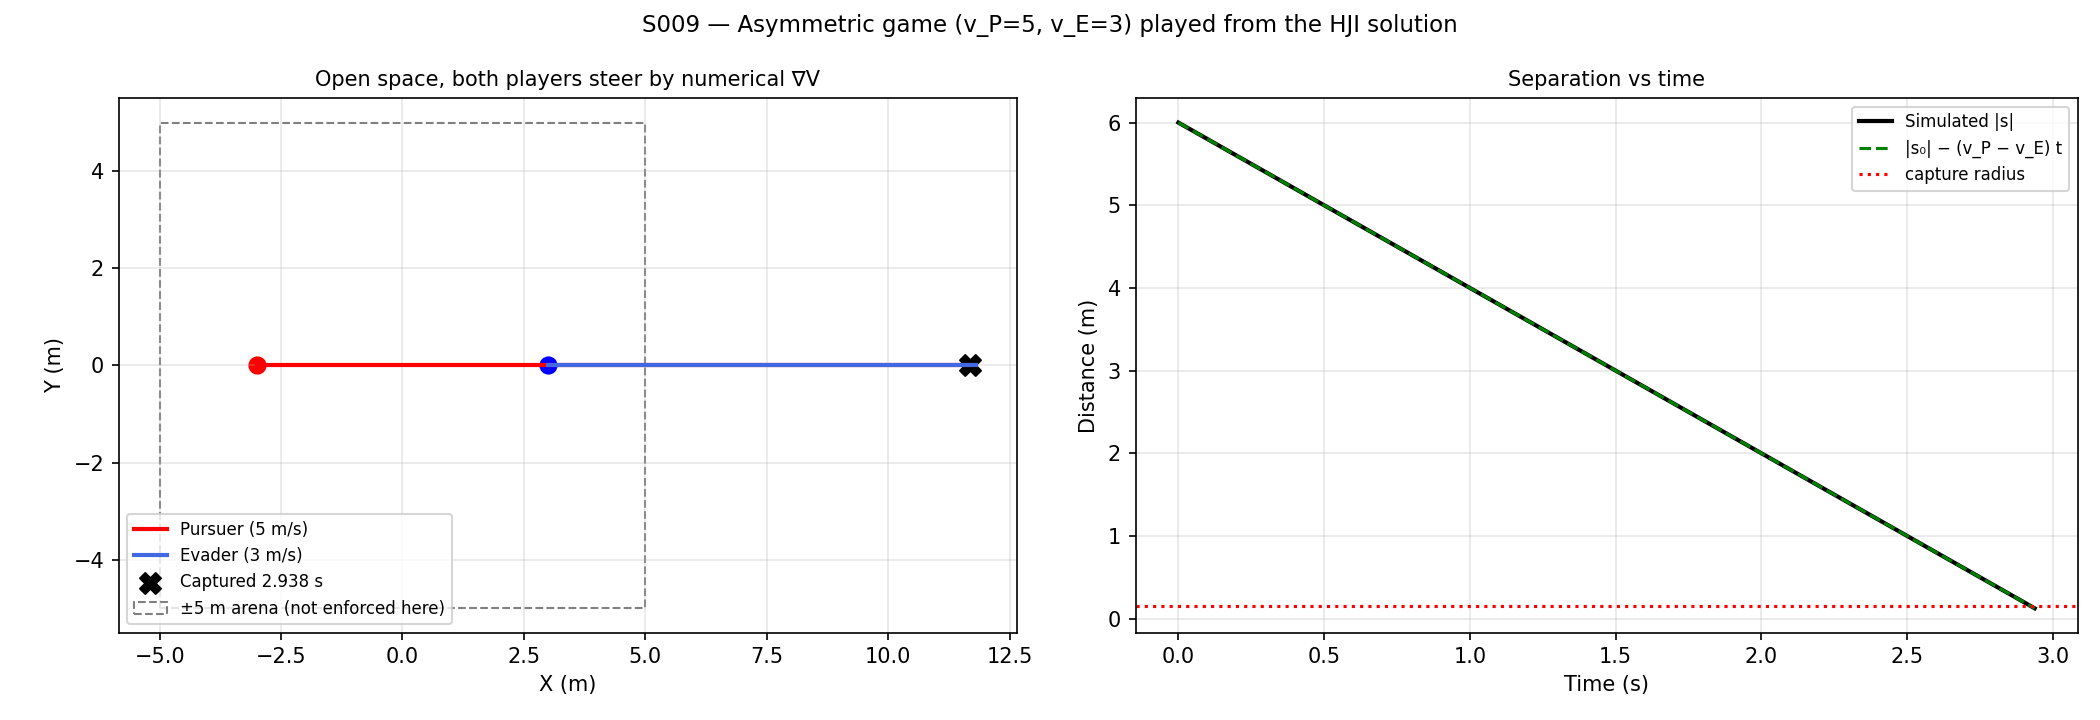
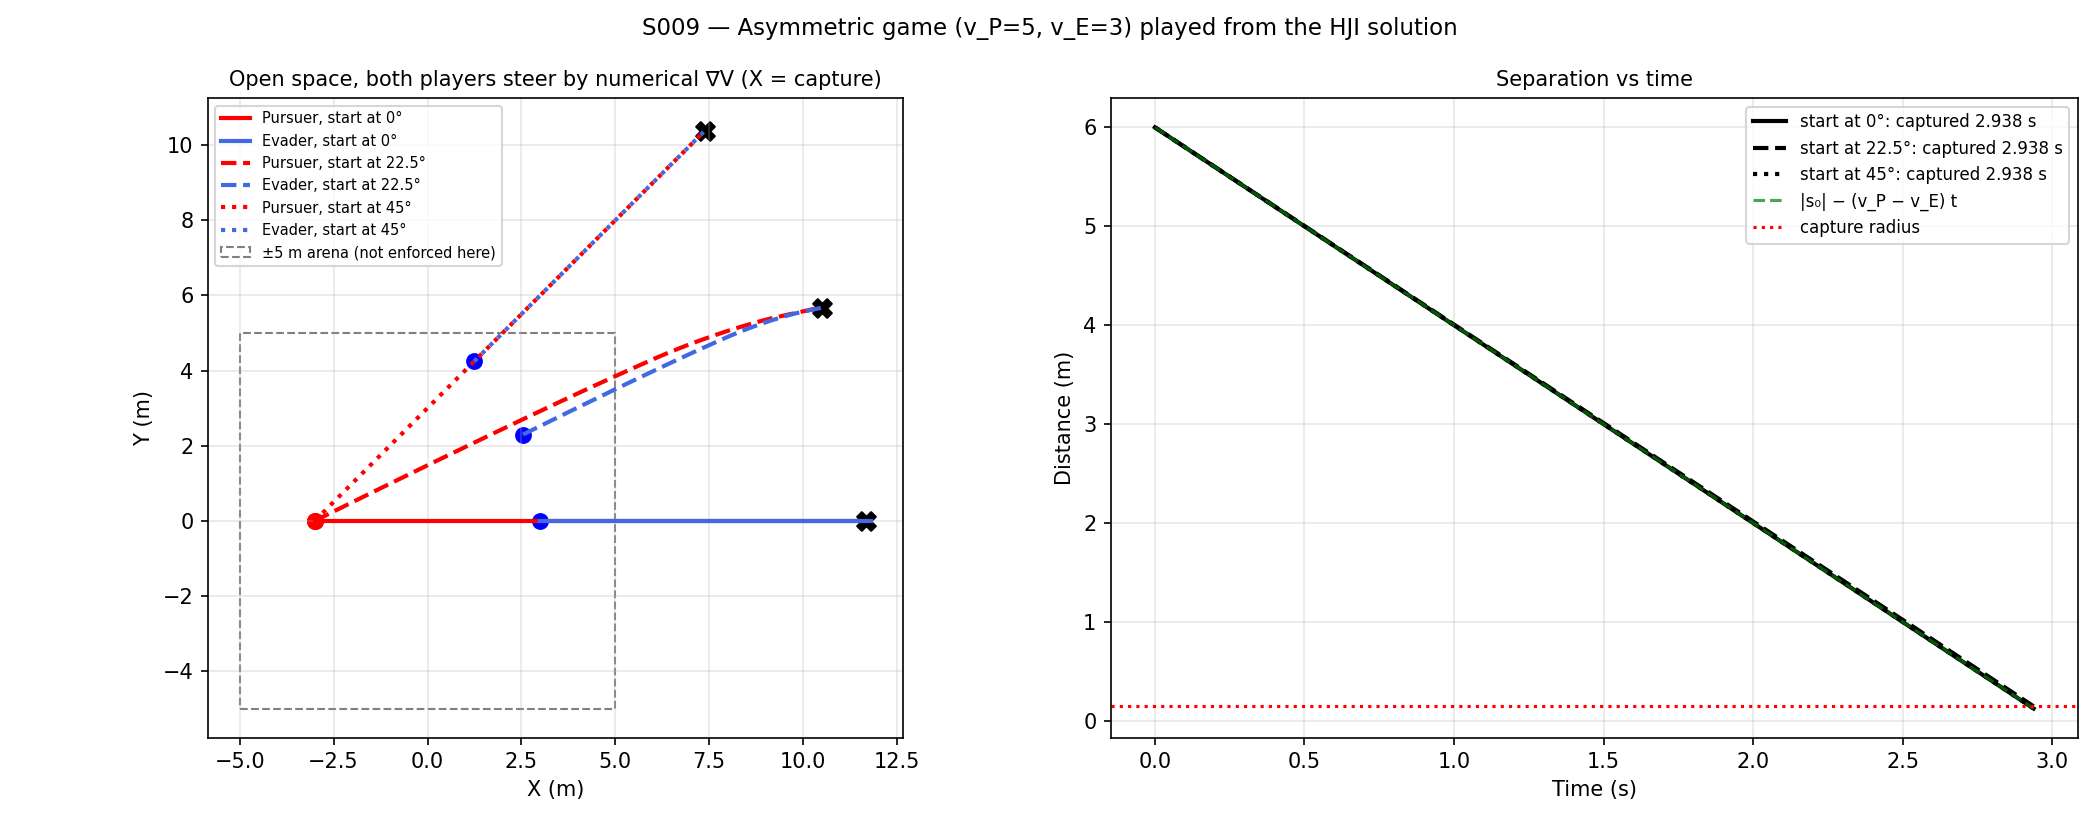
Fix S009 Differential Game: address review follow-ups
- README no longer claims the grid error is zero along the axes (no node
  lies on an axis for N = 50); the script now prints the near-axis error
  (max 0.0412 s on the nearest rows, mean 0.0435 s within 5 deg) and the
  near-diagonal error (mean 0.1880 s)
- Open-space grad-V game also run from off-axis starts (22.5 and 45 deg):
  capture 2.938 s from all starts; the 22.5 deg path bows by up to
  0.318 m. README explains why capture time is insensitive to the
  gradient direction error

diff --git a/src/01_pursuit_evasion/s009_differential_game.py b/src/01_pursuit_evasion/s009_differential_game.py
@@ -15,7 +15,8 @@ Part A — HJI in relative coordinates s = p_E - p_P (no walls)
   - v_P = v_E: |∇V| drops out, V grows by τ every iteration → V = ∞
     (no finite capture time in open space).
   The asymmetric game (v_P = 5, v_E = 3) is then played with both players
-  steering by the interpolated numerical ∇V.
+  steering by the interpolated numerical ∇V, from an on-axis start and two
+  off-axis starts (OFF_AXIS_DEG) where the grid gradient is least accurate.
 
 Part B — Equal-speed Lion & Man in the bounded arena [-5, 5]² (v = 4 m/s,
   capture radius 0.15 m).  The relative-state HJI ignores walls; the full
@@ -56,6 +57,7 @@ CAPTURE_R  = 0.15    # m
 DT_SIM     = 1 / 48
 MAX_TIME_OPEN  = 20.0   # s
 MAX_TIME_ARENA = 150.0  # s
+OFF_AXIS_DEG = [22.5, 45.0]   # deg — extra open-space starts off the grid axes
 
 V_P_ASYM, V_E_ASYM = 5.0, 3.0
 V_EQUAL = 4.0
@@ -222,15 +224,17 @@ MAN_LABEL = {'circle': 'Man: circle (4.5 m)', 'flee': 'Man: flee (HJI open-space
 
 # ── Simulation ───────────────────────────────────────────────
 
-def run_simulation(mode, lion='radius', man='circle', grad_interp=None):
+def run_simulation(mode, lion='radius', man='circle', grad_interp=None, init_evader=None):
     """
     mode = 'open'  : asymmetric speeds (V_P_ASYM, V_E_ASYM), no walls, both
                      players steer by the interpolated numerical ∇V(s).
     mode = 'arena' : equal speeds V_EQUAL in [-ARENA, ARENA]², strategies
                      LIONS[lion] vs MEN[man].
+    init_evader: evader start (default INIT_EVADER).
     Returns dict(p, e, d, t, captured, cap_time).
     """
-    L, M = INIT_PURSUER.astype(float).copy(), INIT_EVADER.astype(float).copy()
+    M0 = INIT_EVADER if init_evader is None else init_evader
+    L, M = INIT_PURSUER.astype(float).copy(), np.asarray(M0, dtype=float).copy()
     p_list, e_list = [L.copy()], [M.copy()]
     if mode == 'open':
         ix, iy = grad_interp
@@ -338,27 +342,31 @@ def plot_convergence(sol2, sol3, sol_eq, out_dir):
     print(f'Saved: {path}')
 
 
-def plot_optimal_trajectories(open_res, out_dir):
-    fig, (ax1, ax2) = plt.subplots(1, 2, figsize=(14, 4.8))
-    p, e = open_res['p'], open_res['e']
-    ax1.plot(p[:, 0], p[:, 1], 'r-', linewidth=2, label='Pursuer (5 m/s)')
-    ax1.plot(e[:, 0], e[:, 1], color='royalblue', linewidth=2, label='Evader (3 m/s)')
-    ax1.scatter(*p[0], color='red', s=60); ax1.scatter(*e[0], color='blue', s=60)
-    if open_res['captured']:
-        ax1.scatter(*p[-1], color='black', marker='X', s=100,
-                    label=f'Captured {open_res["cap_time"]:.3f} s')
+def plot_optimal_trajectories(open_runs, out_dir):
+    fig, (ax1, ax2) = plt.subplots(1, 2, figsize=(14, 5.5))
+    styles = ['-', '--', ':']
+    for (lab, r), ls in zip(open_runs, styles):
+        p, e = r['p'], r['e']
+        ax1.plot(p[:, 0], p[:, 1], color='red', linestyle=ls, linewidth=2,
+                 label=f'Pursuer, {lab}')
+        ax1.plot(e[:, 0], e[:, 1], color='royalblue', linestyle=ls, linewidth=2,
+                 label=f'Evader, {lab}')
+        ax1.scatter(*p[0], color='red', s=50); ax1.scatter(*e[0], color='blue', s=50)
+        if r['captured']:
+            ax1.scatter(*p[-1], color='black', marker='X', s=80)
+        ax2.plot(r['t'], r['d'], color='black', linestyle=ls, linewidth=2,
+                 label=f'{lab}: captured {r["cap_time"]:.3f} s')
     ax1.add_patch(plt.Rectangle((-ARENA, -ARENA), 2 * ARENA, 2 * ARENA, fill=False,
                                 edgecolor='grey', linestyle='--',
                                 label='±5 m arena (not enforced here)'))
     ax1.set_aspect('equal'); ax1.grid(True, alpha=0.3)
     ax1.set_xlabel('X (m)'); ax1.set_ylabel('Y (m)')
-    ax1.set_title('Open space, both players steer by numerical ∇V', fontsize=10)
-    ax1.legend(fontsize=8, loc='lower left')
+    ax1.set_title('Open space, both players steer by numerical ∇V (X = capture)', fontsize=10)
+    ax1.legend(fontsize=7, loc='upper left')
 
-    ax2.plot(open_res['t'], open_res['d'], 'k-', linewidth=2, label='Simulated |s|')
-    t_line = open_res['t']
+    t_line = open_runs[0][1]['t']
     ax2.plot(t_line, np.linalg.norm(INIT_EVADER - INIT_PURSUER)
-             - (V_P_ASYM - V_E_ASYM) * t_line, 'g--',
+             - (V_P_ASYM - V_E_ASYM) * t_line, 'g--', alpha=0.7,
              label='|s₀| − (v_P − v_E) t')
     ax2.axhline(CAPTURE_R, color='red', linestyle=':', label='capture radius')
     ax2.set_xlabel('Time (s)'); ax2.set_ylabel('Distance (m)')
@@ -505,12 +513,40 @@ if __name__ == '__main__':
     print(f'  angle between numerical ∇V and s/|s| (|s| > 1 m): mean {ang.mean():.2f}°, '
           f'max {ang.max():.2f}°')
 
-    open_res = run_simulation('open', grad_interp=gradient_interpolators(g2, V2))
+    # error near the axes (N even: no node lies exactly on an axis)
+    err2 = np.abs(V2 - analytic_value(R2, V_P_ASYM, V_E_ASYM))
+    near = np.min(np.abs(g2))
+    row = (np.isclose(np.abs(X), near) | np.isclose(np.abs(Y), near)) & (R2 > 1.0)
+    axis_ang = np.degrees(np.arctan2(np.minimum(np.abs(X), np.abs(Y)),
+                                     np.maximum(np.abs(X), np.abs(Y))))
+    within5 = (axis_ang <= 5.0) & (R2 > 1.0)
+    diag = (np.abs(axis_ang - 45.0) <= 5.0) & (R2 > 1.0)
+    print(f'  V error on the grid rows nearest the axes (|x| or |y| = {near:.4f} m, '
+          f'|s| > 1 m): max {err2[row].max():.4f} s, mean {err2[row].mean():.4f} s')
+    print(f'  V error within 5° of an axis: mean {err2[within5].mean():.4f} s '
+          f'({within5.sum()} nodes); within 5° of a diagonal: mean '
+          f'{err2[diag].mean():.4f} s ({diag.sum()} nodes)')
+
+    grads = gradient_interpolators(g2, V2)
     s0 = np.linalg.norm(INIT_EVADER - INIT_PURSUER)
-    print(f'  open-space game from ∇V: captured={open_res["captured"]} '
-          f'@ {open_res["cap_time"]:.3f} s (analytic (|s0| - r_c)/(v_P - v_E) = '
-          f'{(s0 - CAPTURE_R) / (V_P_ASYM - V_E_ASYM):.3f} s); '
-          f'evader final x = {open_res["e"][-1, 0]:.2f} m')
+    t_an = (s0 - CAPTURE_R) / (V_P_ASYM - V_E_ASYM)
+    open_runs = []
+    for deg in [0.0] + OFF_AXIS_DEG:
+        th = np.radians(deg)
+        e0 = INIT_PURSUER + s0 * np.array([np.cos(th), np.sin(th)])
+        r = run_simulation('open', grad_interp=grads, init_evader=e0)
+        open_runs.append((f'start at {deg:g}°', r))
+        u0 = (e0 - INIT_PURSUER) / s0
+        de = r['e'] - e0
+        perp = np.abs(u0[0] * de[:, 1] - u0[1] * de[:, 0])   # distance from the start line
+        head = np.degrees(np.arccos(np.clip(
+            (r['e'][-1] - e0) @ u0 / np.linalg.norm(r['e'][-1] - e0), -1, 1)))
+        print(f'  open-space game from ∇V, evader start at {deg:g}° ({e0[0]:.3f}, {e0[1]:.3f}): '
+              f'captured={r["captured"]} @ {r["cap_time"]:.3f} s (analytic {t_an:.3f} s) | '
+              f'evader max deviation from the straight escape line {perp.max():.3f} m, '
+              f'net heading error {head:.2f}° | evader final ({r["e"][-1, 0]:.2f}, '
+              f'{r["e"][-1, 1]:.2f})')
+    open_res = open_runs[0][1]
 
     print(f'\nPart B — equal-speed Lion & Man in the ±{ARENA:.0f} m arena '
           f'(v = {V_EQUAL} m/s, r_c = {CAPTURE_R} m, max {MAX_TIME_ARENA:.0f} s)')
@@ -533,6 +569,6 @@ if __name__ == '__main__':
     out_dir = os.path.normpath(OUTPUT_DIR)
     plot_value_functions(sol2, sol3, out_dir)
     plot_convergence(sol2, sol3, sol_eq, out_dir)
-    plot_optimal_trajectories(open_res, out_dir)
+    plot_optimal_trajectories(open_runs, out_dir)
     plot_arena(arena_res, out_dir)
     save_animation(open_res, arena_res, out_dir)

diff --git a/outputs/01_pursuit_evasion/s009_differential_game/README.md b/outputs/01_pursuit_evasion/s009_differential_game/README.md
@@ -99,7 +99,23 @@ Runtime ≈ 30 s. The script has no random elements.
 
 Angle between the numerical $\nabla V$ and the exact direction $\mathbf{s}/\|\mathbf{s}\|$ (2-D, $\|\mathbf{s}\| > 1$ m): mean 2.57°, max 7.14°.
 
-**Asymmetric game played from the numerical $\nabla V$** (both players): captured at **2.938 s**. Analytic optimum: $(6 - 0.15)/(5 - 3) = 2.925$ s. The simulation needs $\lceil 2.925 \times 48 \rceil = 141$ steps of 1/48 s, i.e. 2.9375 s. The evader ends at x = 11.81 m: this open-space game ignores the arena.
+Grid error near the axes and diagonals (2-D; N = 50 is even, so no node lies exactly on an axis):
+
+| Region (\|s\| > 1 m) | Mean \|V − V_analytic\| | Max |
+|---|---|---|
+| Grid rows nearest the axes (\|x\| or \|y\| = 0.2041 m) | 0.0395 s | 0.0412 s |
+| Within 5° of an axis (216 nodes) | 0.0435 s | — |
+| Within 5° of a diagonal (396 nodes) | 0.1880 s | — |
+
+**Asymmetric game played from the numerical $\nabla V$** (both players), from three evader starts 6 m from the pursuer at (−3, 0):
+
+| Evader start (angle from the x-axis) | Captured | Evader's largest sideways deviation from its initial escape line | Net heading error | Evader end point |
+|---|---|---|---|---|
+| 0° — (3.000, 0.000), on a grid axis | **2.938 s** | 0.000 m | 0.00° | (11.81, 0.00) |
+| 22.5° — (2.543, 2.296) | **2.938 s** | 0.318 m | 0.31° | (10.64, 5.70) |
+| 45° — (1.243, 4.243), on the grid diagonal | **2.938 s** | 0.000 m | 0.00° | (7.47, 10.47) |
+
+Analytic optimum: $(6 - 0.15)/(5 - 3) = 2.925$ s. The simulation needs $\lceil 2.925 \times 48 \rceil = 141$ steps of 1/48 s, i.e. 2.9375 s. The evader ends outside the ±5 m box in every case: this open-space game ignores the arena.
 
 ### Part B — Equal-speed Lion & Man in the ±5 m arena
 
@@ -113,14 +129,15 @@ Both players stay inside the arena in all four games.
 **Key Findings**:
 
 - **The corrected HJI scheme converges to the analytic value.** With the sign fixed, the iteration grows $V$ outward from the capture set and stops changing once $(v_P - v_E)|\nabla V| = 1$ holds everywhere: 119 iterations in 2-D, 145 in 3-D. The front reaches the 2-D corner after about $6.996 / \tau = 6.996 / 0.0918 \approx 76$ iterations ($\tau = 0.9 \times 0.4082 / (2 \times 2) = 0.0918$ s), matching the knee of the convergence curve.
-- **The remaining error is the first-order grid error.** It is zero along the grid axes and largest along the diagonals: a 4-neighbour upwind stencil measures diagonal distances as too long. The largest 2-D error is 0.2206 s, which is 3.2% of the 6.996 s corner value. The coarser 3-D grid (Δx = 0.69 m) has a larger error (0.5561 s).
+- **The remaining error is the first-order grid error.** It is small near the grid axes (mean 0.0395 s, max 0.0412 s on the grid rows nearest the axes; mean 0.0435 s within 5° of an axis) and largest along the diagonals (mean 0.1880 s within 5° of a diagonal). A 4-neighbour upwind stencil measures diagonal distances as too long. The largest 2-D error is 0.2206 s, which is 3.2% of the 6.996 s corner value. The coarser 3-D grid (Δx = 0.69 m) has a larger error (0.5561 s).
 - **Equal speeds in open space: no finite capture time.** For $v_P = v_E$ the $|\nabla V|$ term vanishes, and every iteration adds exactly τ = 0.05 s to $V$ (max|ΔV| = 0.0500 s at every one of 200 iterations). That is the numerical form of $V = \infty$: a Man who runs straight away is never caught.
-- **The value function now drives both players.** Steering by the interpolated numerical $\nabla V$ gives a straight-line chase whose separation follows $|s_0| - (v_P - v_E)\,t$ exactly, and capture at 2.938 s (the analytic optimum plus step rounding). The old version's evader was suboptimal (captured at 2.38 s).
+- **The value function now drives both players.** Steering by the interpolated numerical $\nabla V$ gives capture at 2.938 s (the analytic optimum plus step rounding) from all three starts. The old version's evader was suboptimal (captured at 2.38 s). On the axis (0°) and on the diagonal (45°) the numerical gradient points exactly along $\mathbf{s}$ by symmetry, so the paths are straight. From the 22.5° start, where the gradient direction is off by a few degrees (max 7.14° over the grid), the common path bows sideways by up to 0.318 m and ends 0.31° off the straight line.
+- **Capture time is insensitive to this gradient error, so this test is weak.** Both players use the same direction $\hat{u}$, so the separation shrinks at $(v_P - v_E)\cos\varphi$, where φ is the angle between $\hat{u}$ and $\mathbf{s}$. With φ ≤ 7.14°, $\cos\varphi \ge 0.992$: less than 1% slower, which disappears in the 1/48 s step. A test where only one player uses the numerical gradient and the other the exact direction would expose the error more directly; it is not done here.
 - **In the bounded arena with a 0.15 m capture radius, the Lion wins against every Man strategy tried.** This contradicts the card's expectation that the Man can keep his distance indefinitely. That expectation holds in open space (above) or in the continuous game with zero capture radius (Besicovitch's spiral). With walls and a positive capture radius, the Lion can always catch him.
 - **The Lion's strategy matters a lot against the circling Man.** The radius strategy (stay between centre and Man) captures him in 2.271 s. Pure pursuit, the open-space HJI control, needs 88.208 s: it falls into the Man's circle behind him, and the gap shrinks only slowly (log-scale distance plot).
 - **The Man's open-space HJI control (flee) fails in a box.** Running straight away takes him into the right wall, along it, and into the (5, 5) corner, where he is caught (2.542 s against pure pursuit, 2.688 s against the radius strategy). The radius Lion is 0.15 s slower there because it first moves along the centre→Man segment instead of straight at him.
 
-**Value Function** — left: numerical V(s) for $v_P = 5$, $v_E = 3$ (2-D); centre: error against the analytic value (zero along the axes, largest on the diagonals); right: V against distance for every 2-D and 3-D grid node, with the analytic line:
+**Value Function** — left: numerical V(s) for $v_P = 5$, $v_E = 3$ (2-D); centre: error against the analytic value (small near the axes, largest on the diagonals); right: V against distance for every 2-D and 3-D grid node, with the analytic line:
 
 ![Value Functions](value_functions.png)
 
@@ -128,7 +145,7 @@ Both players stay inside the arena in all four games.
 
 ![Convergence](convergence.png)
 
-**Asymmetric Game from ∇V** (open space) — both players fly straight along ∇V; the separation follows $6 - 2t$ (dashed) to capture:
+**Asymmetric Game from ∇V** (open space, starts at 0°, 22.5° and 45°) — on-axis and diagonal starts give straight paths; the 22.5° path bows slightly; all three separations follow $6 - 2t$ (green dashed) to capture at 2.938 s:
 
 ![Optimal Trajectories](optimal_trajectories.png)
 
